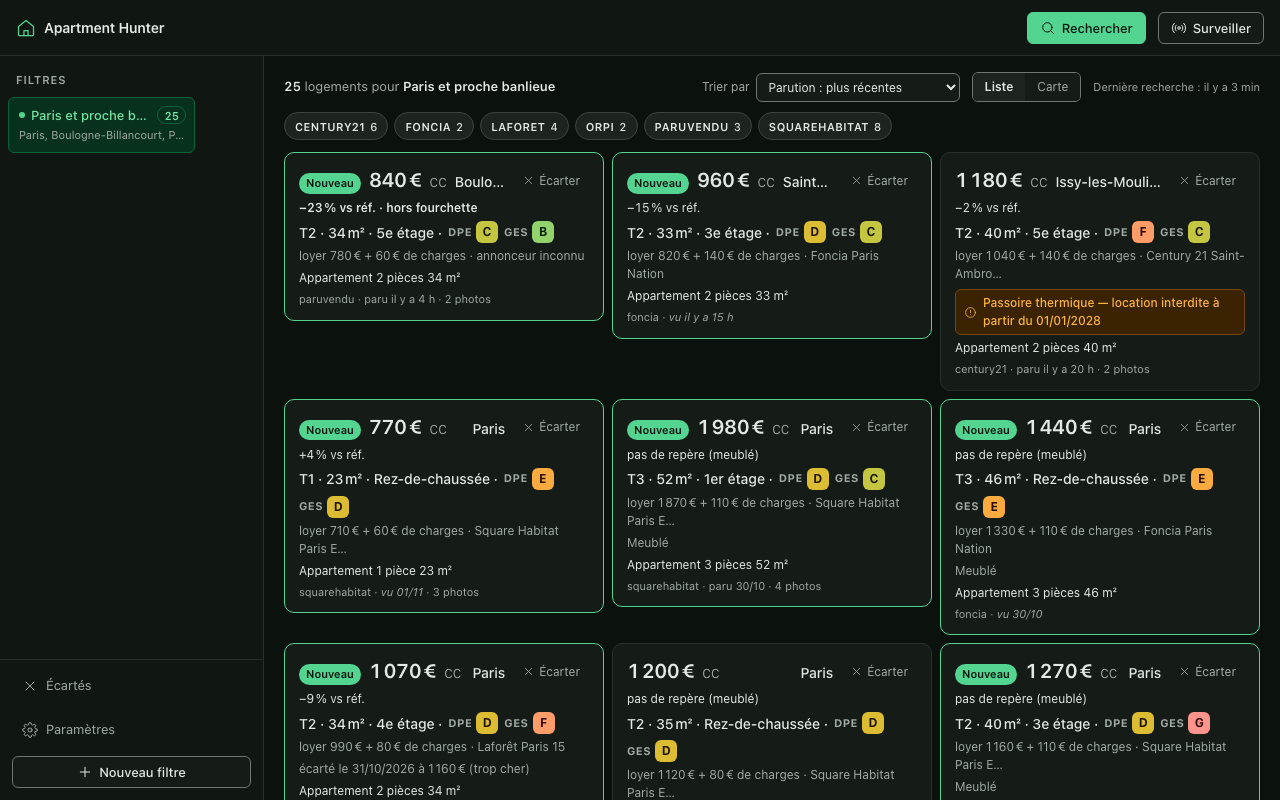
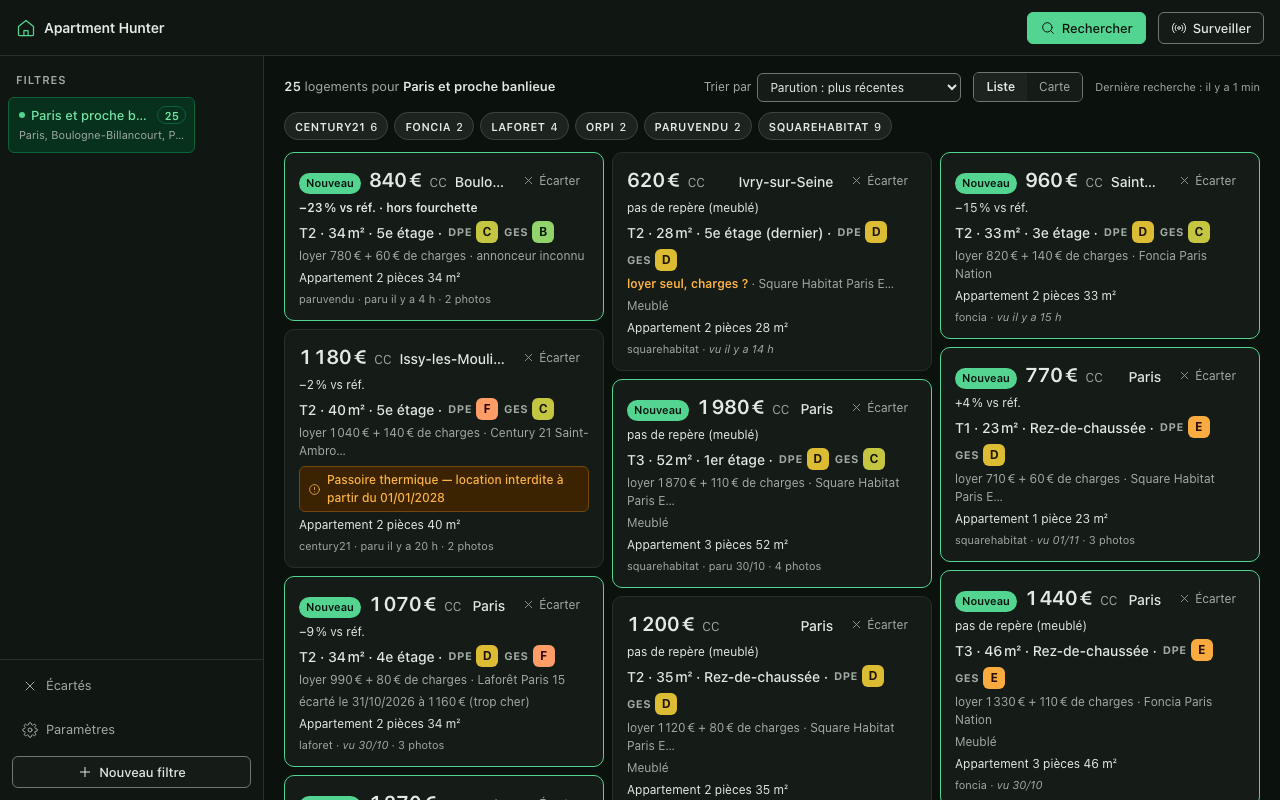
feat(web): cartes en masonry, dans l'ordre du tri
Chaque carte prend la fin de la colonne la plus courte, sans trou sous les cartes
courtes. Le placement reste celui de la grille (jamais dense) : l'ordre de lecture
reste l'ordre du tri, et j/k le suivent. Sans script, la grille d'avant.

diff --git a/src/apartment_hunter/presentation/web/assets/app.js b/src/apartment_hunter/presentation/web/assets/app.js
@@ -140,6 +140,7 @@ const CSS = Object.freeze({
   HAS_RESULTS: 'has-results',
   FILTER_COUNT: 'filter-count',
   DPE_UNKNOWN: 'dpe-na',
+  MASONRY: 'is-masonry',
 });
 
 // What the main area shows. Background refreshes only redraw the listings view.
@@ -550,6 +551,28 @@ function applyListings(data, highlightNew) {
     const plural = newIds.size > 1 ? 's' : '';
     showToast(`${newIds.size} annonce${plural} détectée${plural}`);
   }
+}
+
+// One observer for the cards on screen: a card's height changes with the column
+// width, when its « Nouveau » badge goes, when the fonts arrive. Setting its span never
+// changes its height (cards align to the start of their area), so it cannot loop.
+const masonryObserver = new ResizeObserver(entries => {
+  for (const { target } of entries) spanMasonryCard(target);
+});
+let masonryGap = 0;
+
+function arrangeMasonry() {
+  masonryObserver.disconnect();
+  const list = document.querySelector('.cards:not([aria-hidden])');
+  if (!list) return;
+  // The gap stays in the stylesheet; the rows become 1px, so a card spans gap + height.
+  masonryGap = parseFloat(getComputedStyle(list).rowGap) || 0;
+  list.classList.add(CSS.MASONRY);
+  for (const card of list.children) masonryObserver.observe(card);
+}
+
+function spanMasonryCard(card) {
+  card.style.gridRowEnd = `span ${Math.ceil(card.getBoundingClientRect().height + masonryGap)}`;
 }
 
 function sortControlHtml() {
@@ -1490,6 +1513,7 @@ function renderMain(html) {
   const main = el(EL.MAIN);
   main.innerHTML = html;
   main.setAttribute('aria-busy', 'false');
+  arrangeMasonry();
 }
 
 function setStatus(message) {

diff --git a/src/apartment_hunter/presentation/web/assets/styles.css b/src/apartment_hunter/presentation/web/assets/styles.css
@@ -249,6 +249,12 @@ main { flex: 1; min-width: 0; display: flex; flex-direction: column }
   padding: 12px 20px 24px; display: grid; gap: 8px; align-items: start;
   grid-template-columns: repeat(auto-fill, minmax(300px, 1fr));
 }
+/* Masonry, set by the script: 1px rows, each card spanning its own height plus one
+   gap, so a short card leaves no hole under it. Placement stays sparse: each card
+   takes the end of the shortest column, in DOM order, so the sort order is still the
+   reading order and j/k still walk it. Never `dense`, which would pull a later home
+   ahead of an earlier one. Without the script, the plain grid above. */
+.cards.is-masonry { grid-auto-rows: 1px; row-gap: 0 }
 
 /* ── Loading & empty states ─────────────────────────────────────────────── */
 .skeleton-card {

diff --git a/tests/presentation/test_web_asset_guards.py b/tests/presentation/test_web_asset_guards.py
@@ -263,3 +263,23 @@ def test_the_advertiser_kinds_are_the_domain_ones() -> None:
 def test_the_rent_map_credit_names_the_source_as_the_domain_does() -> None:
     # Act & Assert — Licence Ouverte: the web line must carry the same credit (ADR-0010)
     assert RENT_MAP_CREDIT[1:] in _APP_JS
+
+
+def test_the_card_masonry_keeps_the_reading_order() -> None:
+    """Cards are packed as a masonry by auto-placement, in DOM order.
+
+    `dense` placement would fill a hole with a later card: the sort order would no
+    longer be the reading order, and j/k would jump around the page.
+    """
+    # Arrange
+    styles = (_ASSETS / "styles.css").read_text(encoding="utf-8")
+
+    # Act
+    dense = re.findall(r"grid-auto-flow\s*:[^;}]*dense", styles) + re.findall(
+        r"gridAutoFlow[^;\n]*dense", _APP_JS
+    )
+
+    # Assert
+    assert ".cards.is-masonry" in styles
+    assert "MASONRY: 'is-masonry'" in _APP_JS
+    assert not dense, "un placement `dense` réordonnerait les cartes"

diff --git a/DESIGN.md b/DESIGN.md
@@ -125,6 +125,11 @@ Dense scale: 4 · 6 · 8 · 12 · 16 · 20 · 24 · 32. Header 56px, sidebar 264
 Radius: 6 (controls) · 10 (cards, modal) · 999 (chips). Elevation is one soft
 shadow at `oklch(26% 0.02 155 / 0.06)`; cards separate by border, not shadow.
 
+The cards pack as a masonry: each takes the end of the shortest column, in sort order,
+so a short card leaves no hole under it and the reading order stays the sort order.
+Placement only, never motion: a resize re-packs without a transition. Without the
+script, the plain grid. Held by `test_the_card_masonry_keeps_the_reading_order`.
+
 Structural responsive behaviour, not fluid type: below 900px the sidebar becomes
 a horizontal filter strip above the results and the layout scrolls as one column.
 
